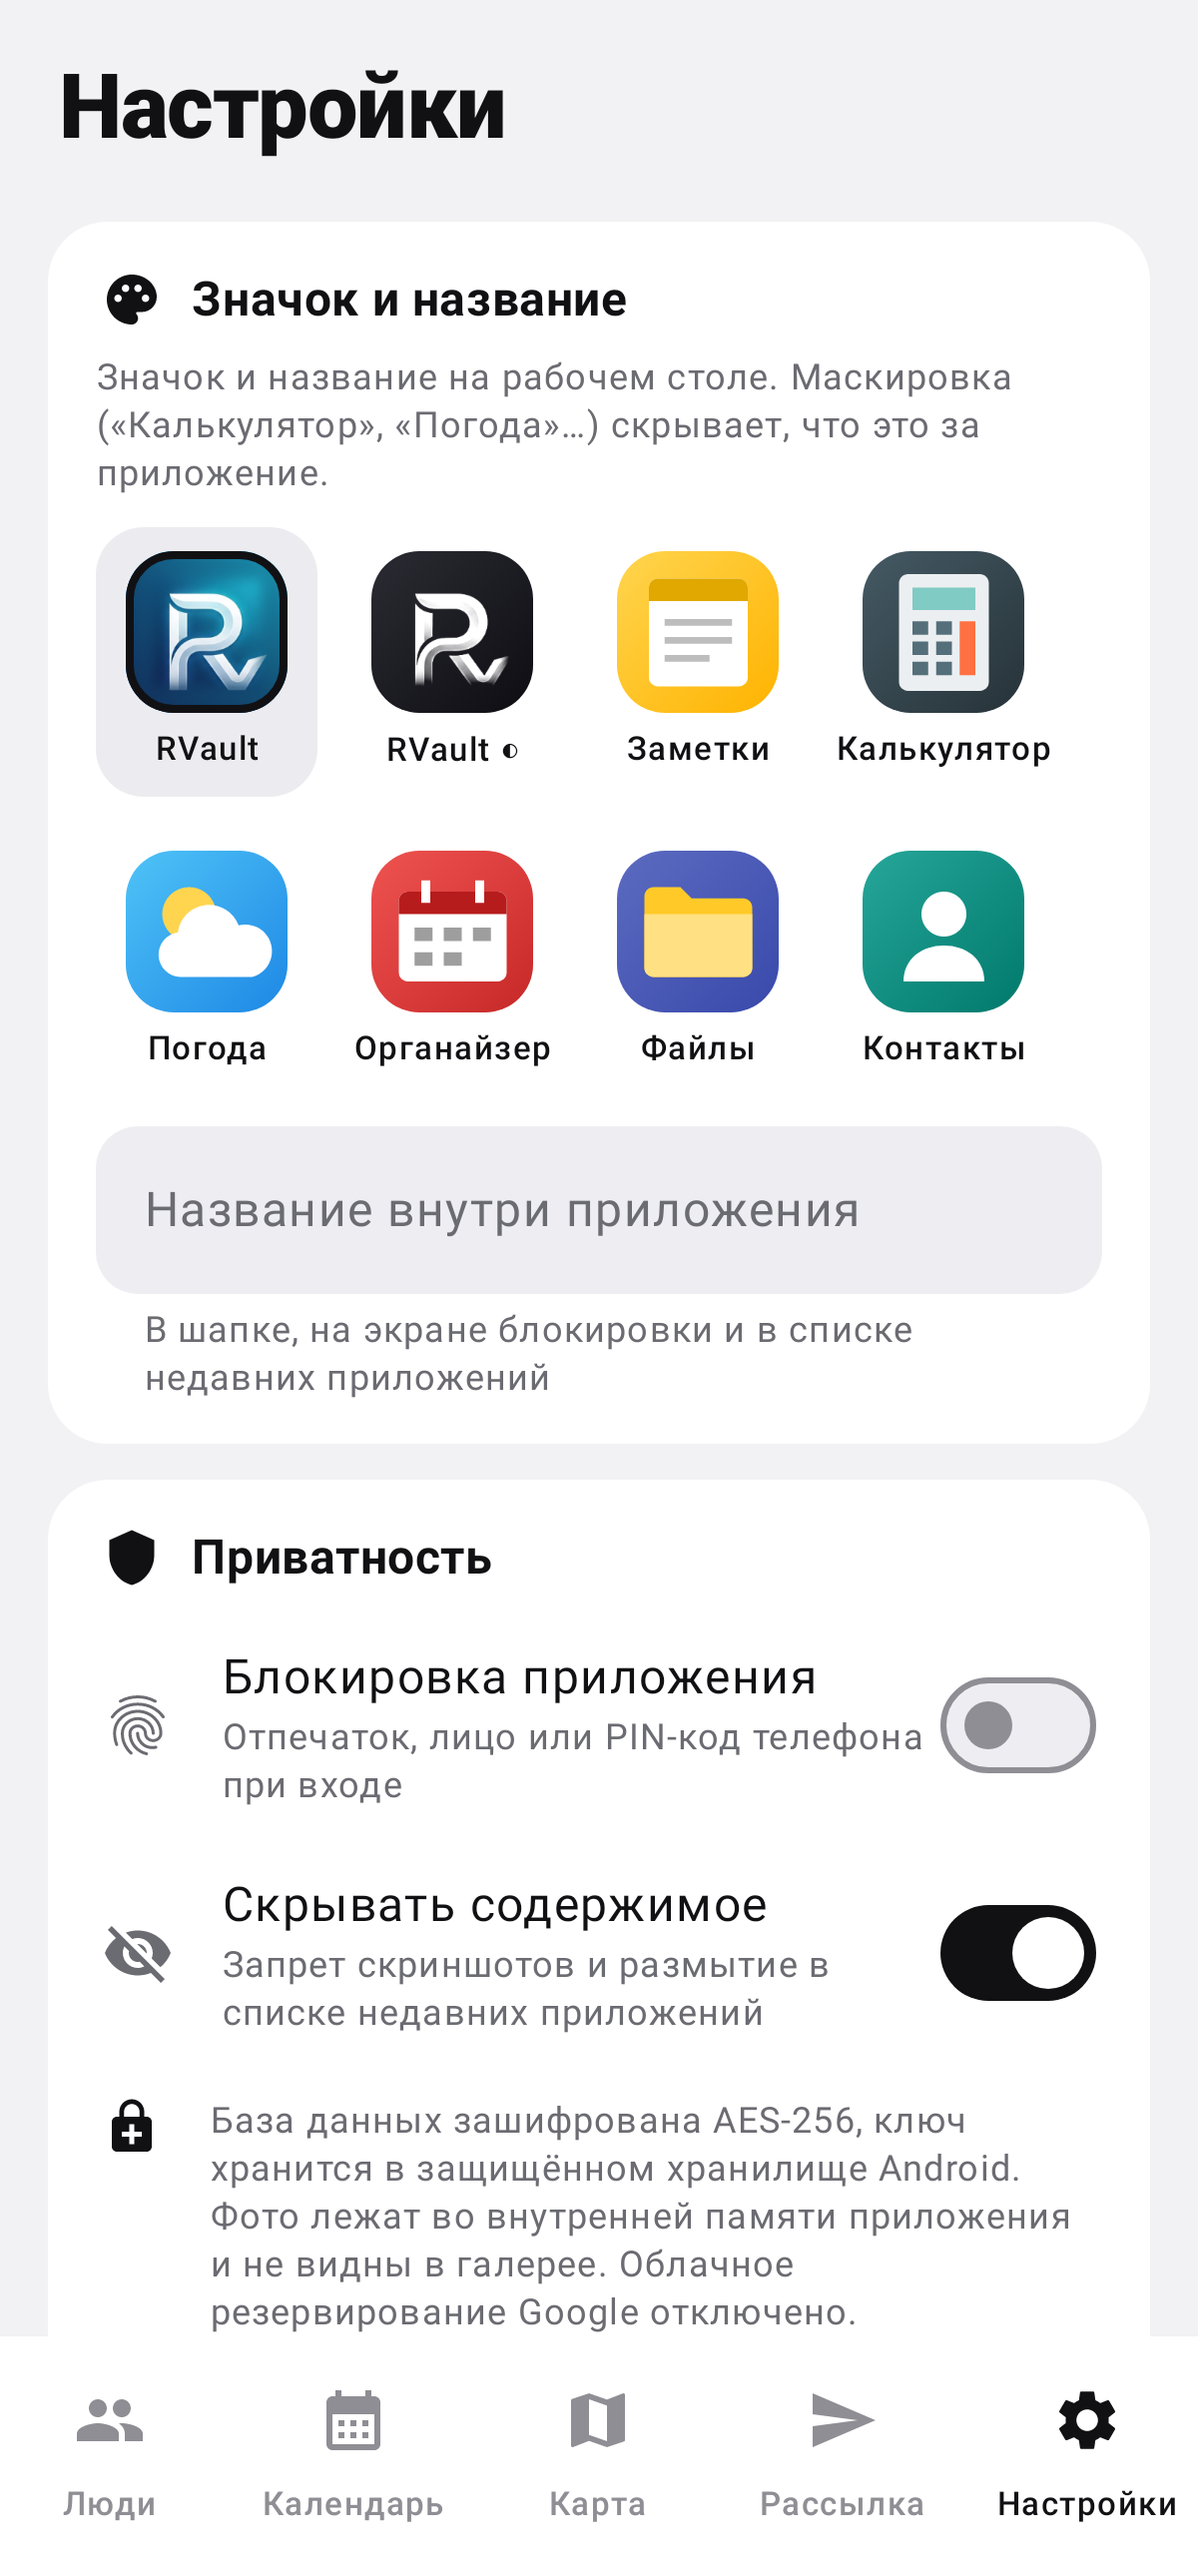
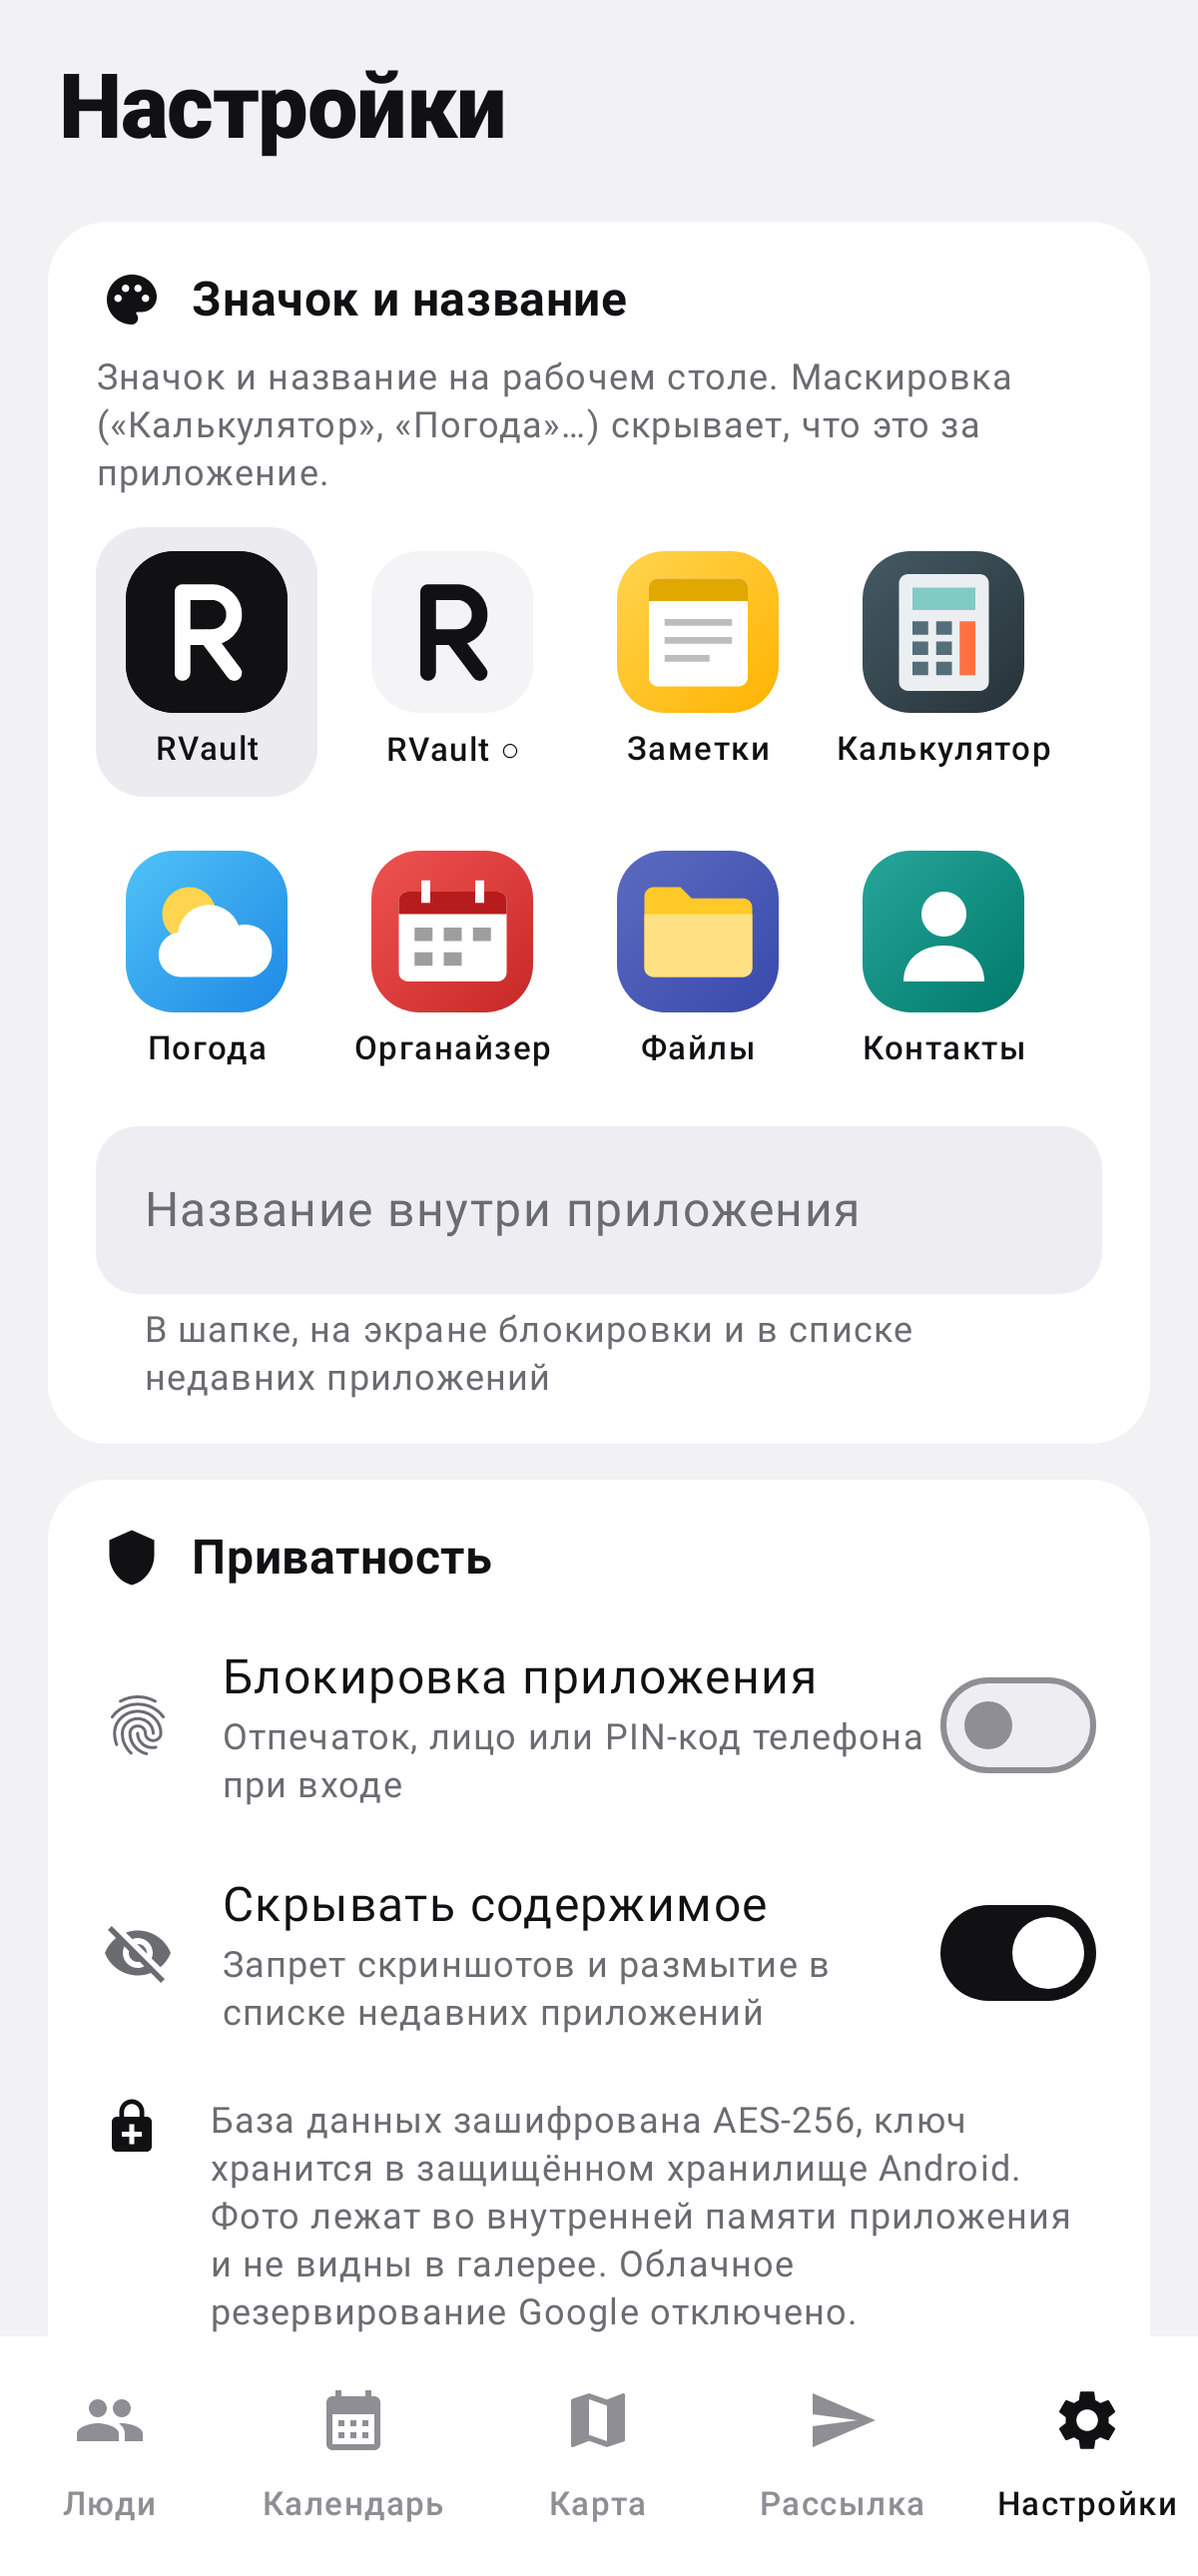
RVault 1.2: минималистичная иконка R
Векторная буква R ровной линией по центру значка: белая на чёрном
(основной вариант) и чёрная на светлом (второй вариант). Та же R —
в монохромном значке и в уведомлениях. Растровая иконка удалена.

Claude-Session: https://claude.ai/code/session_01HkrfmyeVh7sZjS3Avan5hw

Changed region(s): [[0.3083, 0.2171, 0.4625, 0.2791], [0.0925, 0.2171, 0.2467, 0.2791]]

diff --git a/app/src/main/java/com/kartoteka/app/AppIcons.kt b/app/src/main/java/com/kartoteka/app/AppIcons.kt
@@ -17,11 +17,10 @@ enum class AppIcon(
     val bgStart: Long,
     val bgEnd: Long,
     val disguise: Boolean,
-    /** Готовая картинка значка целиком (для основного варианта). */
-    @DrawableRes val fullImage: Int? = null,
 ) {
-    DEFAULT("Default", R.string.app_name, R.drawable.rvault_mono, 0xFF1B6FA0, 0xFF12305F, false, R.drawable.rvault_bg),
-    DARK("Dark", R.string.app_name, R.drawable.rvault_mono, 0xFF2B2B33, 0xFF0D0D12, false),
+    DEFAULT("Default", R.string.app_name, R.drawable.ic_r_white, 0xFF111114, 0xFF111114, false),
+    /** Светлый вариант: чёрная R на белом (alias «Dark» сохранён ради совместимости). */
+    DARK("Dark", R.string.app_name, R.drawable.ic_r_black, 0xFFF4F4F6, 0xFFF4F4F6, false),
     NOTES("Notes", R.string.alias_notes, R.drawable.icfg_notes, 0xFFFFD54F, 0xFFFFB300, true),
     CALC("Calc", R.string.alias_calc, R.drawable.icfg_calc, 0xFF455A64, 0xFF263238, true),
     WEATHER("Weather", R.string.alias_weather, R.drawable.icfg_weather, 0xFF4FC3F7, 0xFF1E88E5, true),
@@ -49,7 +48,8 @@ object AppIcons {
         custom.trim().ifBlank { context.getString(current(context).label) }
 
     /** Значок для уведомлений — под текущую маскировку. */
-    fun notificationIcon(context: Context): Int = current(context).foreground
+    fun notificationIcon(context: Context): Int =
+        current(context).let { if (it == AppIcon.DEFAULT || it == AppIcon.DARK) R.drawable.ic_r_white else it.foreground }
 
     /** Сначала включаем новый вариант, потом выключаем остальные — чтобы значок не пропал совсем. */
     fun apply(context: Context, icon: AppIcon) {

diff --git a/app/src/main/java/com/kartoteka/app/ui/settings/AppearanceSettings.kt b/app/src/main/java/com/kartoteka/app/ui/settings/AppearanceSettings.kt
@@ -70,7 +70,7 @@ fun AppearanceSettings(settings: Settings) {
                 ) {
                     IconPreview(icon, selected)
                     Text(
-                        stringResource(icon.label) + if (icon == AppIcon.DARK) " ◐" else "",
+                        stringResource(icon.label) + if (icon == AppIcon.DARK) " ○" else "",
                         style = MaterialTheme.typography.labelSmall,
                         textAlign = TextAlign.Center,
                         maxLines = 1,
@@ -123,11 +123,6 @@ private fun IconPreview(icon: AppIcon, selected: Boolean) {
         contentAlignment = Alignment.Center,
     ) {
         // Передний слой адаптивного значка рассчитан на 108dp, видимая часть — центральные 72dp.
-        val full = icon.fullImage
-        if (full != null) {
-            Image(painterResource(full), null, Modifier.requiredSize(81.dp))
-        } else {
-            Image(painterResource(icon.foreground), null, Modifier.requiredSize(81.dp))
-        }
+        Image(painterResource(icon.foreground), null, Modifier.requiredSize(81.dp))
     }
 }
